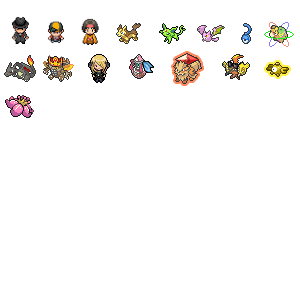
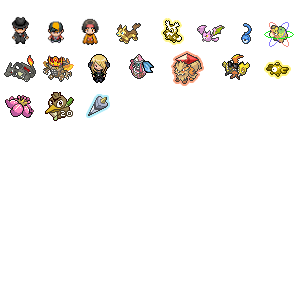
update

diff --git a/src/userflair.css b/src/userflair.css
@@ -135,6 +135,14 @@
     background-image: url(%%specialflairs%%)!important;
     background-position: 3px -91px;
 }
+.author[href$="/Haruka-sama"]~.flair {
+    background-image: url(%%specialflairs%%)!important;
+    background-position: -38px -89px;
+}
+.author[href$="/Theprinceofarendelle"]~.flair {
+    background-image: url(%%specialflairs%%)!important;
+    background-position: -76px -90px;
+}
 
 /********************************************************************************
 * CUSTOM USER BALL FLAIRS
@@ -451,8 +459,17 @@
     transform: scale(0.9);
 }
 
+/* Pokedex */
 .author[href$="/Crusader1998123"]~.flair:after,
-.author[href$="/Cls31"]~.flair:after {
+.author[href$="/KingPikablu"]~.flair:after,
+.author[href$="/Cls31"]~.flair:after,
+.flair.flair-dex-complete:after {
     background-position: -48px -171px;
+    transform: scale(0.9);
+}
+
+/* pokebank guess winners */
+.flair.flair-bankflair:after {
+    background: url(%%balls%%) no-repeat -13px -266px !important;
     transform: scale(0.9);
 }

diff --git a/src/sidebar.css b/src/sidebar.css
@@ -373,35 +373,24 @@
     content: '';
     display: block;
     position: absolute;
-    background: url(%%pokesheet%%) -125px -405px;
     width: 27px;
     height: 27px;
+    top: 3px;
     left: 10px;
-    top: 3px
+    background: url(%%symsm%%) no-repeat 0 1px / auto 27px;
 }
 .side .md > h1 a:last-child:before {
-    left: 3px;
-    background-position: -157px -405px
+    left: 8px;
+    background-position: -27px 1px;
 }
 
-
-html[lang$=nm] .side .md > h1 a:last-child:before {
-    background-position: -157px -437px
-}
+/* nightmode */
 html[lang$=nm] .side .md > h1 a:last-child {
-    color: #2da8e8
+    color: #57aad4
 }
-
-html:not([lang$=nm]) .side .md > h1 a:first-child:before {
-    background-position: -125px -437px
-}
+/* sun mode */
 html:not([lang$=nm]) .side .md > h1 a:first-child {
-    color: #e3b34d
-}
-
-html:not([lang$=nm]) .side .md > h1 a:last-child,
-html[lang$=nm] .side .md > h1 a:first-child {
-    font-weight: 400
+    color: #ea8f24
 }
 
 /* Morelinks

diff --git a/src/announce.css b/src/announce.css
@@ -57,7 +57,7 @@ body>.content {
 /* top announcement flair positioning
 --------------------------------------------------------------------------------*/
 .side .md>blockquote:first-of-type>p:nth-of-type(1)>a:before {
-    background: url(%%formsflair%%) -400px -128px /* TODO: Change this sprite weekly (PoTW) */
+    background: url(%%hoennflair%%) -360px -64px /* TODO: Change this sprite weekly (PoTW) */
 }
 .side .md>blockquote:first-of-type>p:nth-of-type(2)>a:before {
     background: url(%%kantoflair%%) -800px -32px

diff --git a/src/linkflair.css b/src/linkflair.css
@@ -85,6 +85,13 @@
     border-left-color: #e4796b !important
 }
 
+.spoiler-stamp.stamp {
+    background: #e4796b;
+    border-color: #e4796b;
+    color: white;
+    margin-top: -1px;
+}
+
 /* spoiler linkflairlabel and title overlay
 --------------------------------------------------------------------------------*/
 

diff --git a/src/moontheme.css b/src/moontheme.css
@@ -250,7 +250,7 @@ html[lang$=nm] .side .md > h1 {
     border: 1px solid rgba(255, 255, 255, .15)
 }
 html[lang$=nm] .side .md > h1 a {
-    color: #fff
+    color: rgba(255,255,255,0.65)
 }
 html[lang$=nm] .side .md > h1 a:last-child {
     border-left: 1px solid rgba(255, 255, 255, .15)

diff --git a/src/thing.css b/src/thing.css
@@ -105,7 +105,7 @@
 .thumbnail.nsfw {
     background: -70px 0
 }
-.linkflair-spoiler .thumbnail {
+.linkflair-spoiler .thumbnail, .thumbnail.spoiler {
     background: -70px -70px
 }
 .stickied .thumbnail.self {

diff --git a/build.py b/build.py
@@ -1,3 +1,4 @@
+#! python3
 import os.path
 import shutil
 import glob
